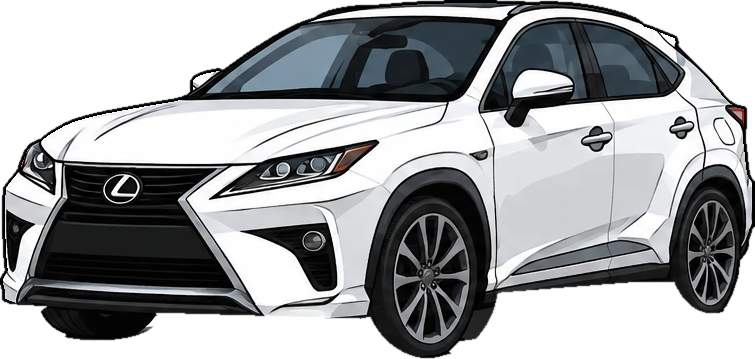
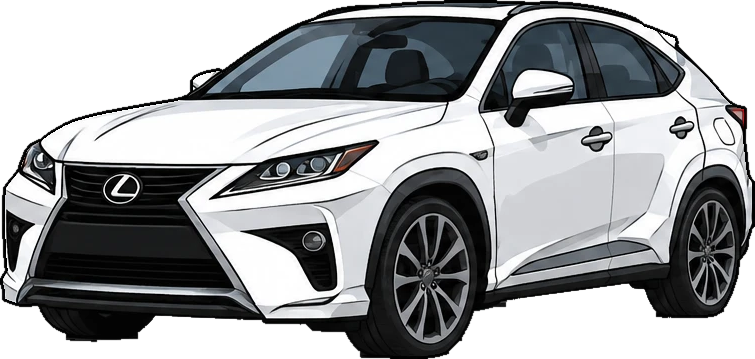
Lexus NX: тень снята по цвету (unshadow.py) — колёса целые, без белых обрезков; ep53 слайды пересняты
Claude-Session: https://claude.ai/code/session_011h7oDPmmegoivb4yRZ71Zj

diff --git a/reels/perekupy/kit/img/_tools/unshadow.py b/reels/perekupy/kit/img/_tools/unshadow.py
@@ -1,0 +1,50 @@
+# python unshadow.py <png> [--lo=28 --hi=42 --from=.78] — снять ровную серую тень под машиной (листы владельца: тень однотонная ~34),
+# не трогая шины (почти чёрные, с рисунком) и кузов. Тень = нейтральные пиксели тона lo..hi ниже доли высоты `from`, связанные с прозрачным фоном.
+# Потом: белые «обрезки» фона, которые после этого оказались снаружи, тоже убираем; остаётся одна самая большая деталь (машина).
+# Владелец 13.11 про Lexus NX: «обрезал колёса… вырежи нормально, чтобы нигде не было белых обрезков и все колёса были на месте».
+import sys
+import numpy as np
+from PIL import Image
+from scipy import ndimage
+
+f = sys.argv[1]
+opt = {k: float(v) for k, v in (a[2:].split("=") for a in sys.argv[2:] if a.startswith("--"))}
+lo, hi, frm = opt.get("lo", 28), opt.get("hi", 42), opt.get("from", .78)
+im = np.asarray(Image.open(f).convert("RGBA")).astype(int); h, w = im.shape[:2]
+rgb, a = im[..., :3], im[..., 3]
+lum, sat = rgb.mean(-1), rgb.max(-1) - rgb.min(-1)
+yy = np.mgrid[:h, :w][0]
+low = yy > frm * h
+transp = a < 128
+cand = (a >= 128) & low & (sat < 8) & (lum >= lo) & (lum <= hi)
+# мягкий край тени (переход тень → фон) — тоже тень
+edge = (a >= 128) & low & (sat < 10) & (lum > hi) & (lum < 200)
+removed = np.zeros_like(transp)
+for _ in range(3):
+    lab, n = ndimage.label(cand | (edge & ndimage.binary_dilation(removed | transp, iterations=2)))
+    touch = set(np.unique(lab[ndimage.binary_dilation(transp | removed, iterations=1)])) - {0}
+    rm = np.isin(lab, list(touch))
+    if not (rm & ~removed).any():
+        break
+    removed |= rm
+alpha = np.where(removed, 0, a)
+# белые обрезки фона снаружи: почти белые нейтральные пятна внизу, касающиеся прозрачного
+# (с серой каймой 90…200 вокруг — она отделяла белый клин от прозрачного); только небольшие пятна, чтобы не задеть кузов
+white = (alpha >= 128) & low & (lum > 90) & (sat < 10)
+lab, n = ndimage.label(white)
+touch = set(np.unique(lab[ndimage.binary_dilation(alpha < 128, iterations=1)])) - {0}
+sizes = dict(zip(range(1, n + 1), ndimage.sum(white, lab, range(1, n + 1))))
+alpha = np.where(np.isin(lab, [k for k in touch if sizes[k] < 4000]), 0, alpha)
+fg = alpha >= 128
+# тонкие хвосты края тени (1–4 px по высоте) у низа шин и светлые полоски под бампером: внизу оставляем только то, что «толще» 6 px по вертикали
+thick = ndimage.binary_opening(fg, structure=np.ones((7, 1), bool))
+fg = np.where(yy > (frm - .06) * h, thick, fg)
+lab, n = ndimage.label(fg)
+if n > 1:
+    sizes = ndimage.sum(fg, lab, range(1, n + 1)); fg = lab == (1 + int(np.argmax(sizes)))
+alpha = (ndimage.gaussian_filter(fg.astype(float), .5) * 255).clip(0, 255) * (fg | ndimage.binary_dilation(fg, iterations=1))
+out = np.dstack([rgb, alpha]).astype(np.uint8)
+ys, xs = np.nonzero(alpha > 8)
+out = out[ys.min():ys.max() + 1, xs.min():xs.max() + 1]
+Image.fromarray(out).save(f)
+print(f, "снято тени:", int(removed.sum()), "px →", out.shape[1], "×", out.shape[0])
